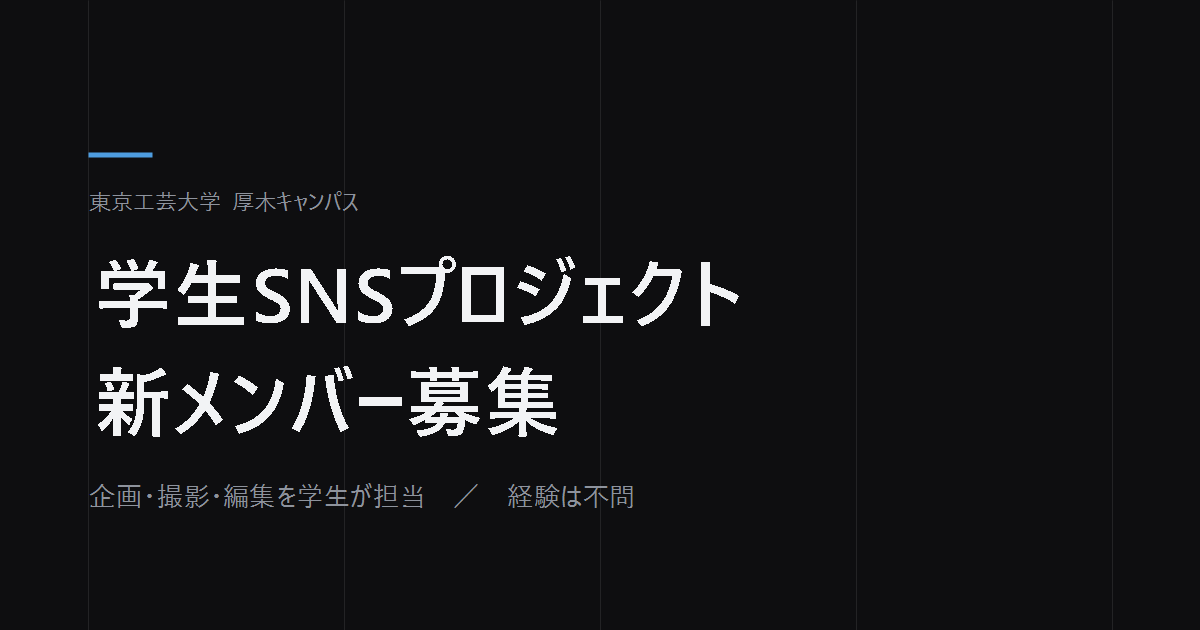
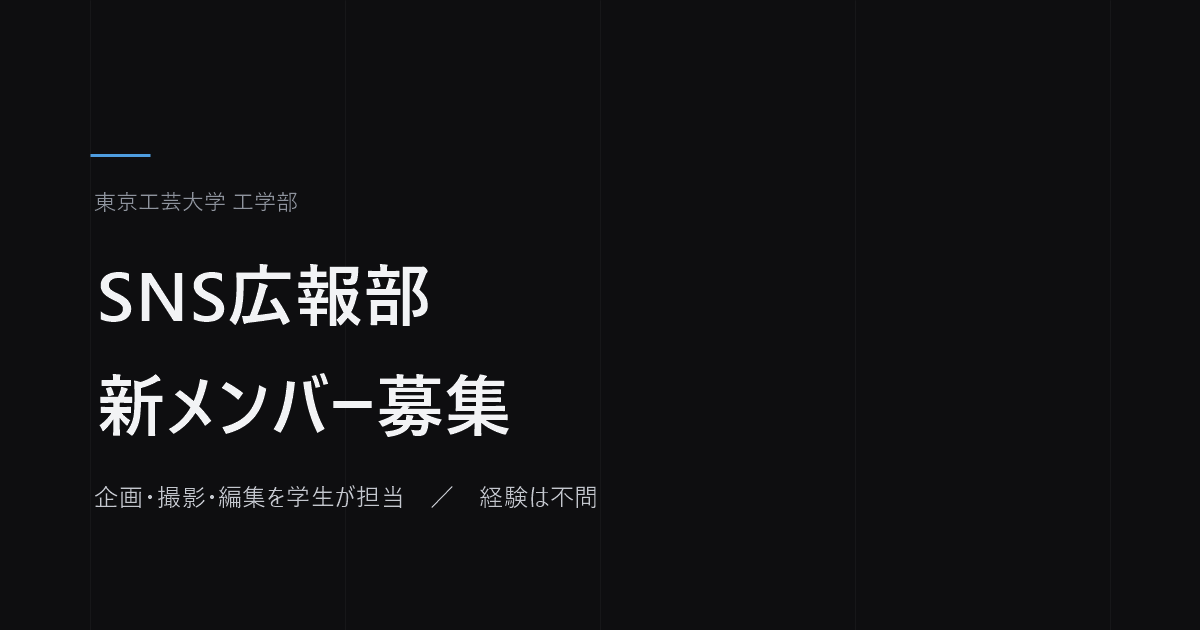
入試課フィードバックを反映：SNS広報部への名称変更・工学部への表記統一
工学部入試課からの正式フィードバック4点を反映。

1. 「学生SNSプロジェクト」を「SNS広報部」（正式表記「東京工芸大学 工学部
   SNS広報部」）へ全面変更。title / meta description / OGP各項目 /
   OGP画像（再生成）/ ヘッダー・ロゴ・見出し・本文・alt属性 / README を
   対象に統一。フッターの正式名称・略称プレースホルダーはこれで解消

2. 「厚木キャンパス」を「工学部」へ置換。1箇所ずつ自然さを確認しながら
   実施し、grepで「厚木」の残存が無いことを確認

3. 問い合わせ先に担当者名（橋本）を追加。掲載許可取得済みのため
   【要確認】マークを解除し、tel:リンク付きの確定表記に変更

4. フッターに制作クレジット「工学部 SNS広報部 学生有志」を追加。
   非公式注記は現状存在しないため追加せず（ユーザー確認済み）

名称変更に伴い、自己紹介文の「プロジェクトです」は「部です」に、
01セクション見出し「プロジェクトの現状」は「SNS広報部の現状」に修正し、
「プロジェクト」という語を全ファイルから除去。「稼働」「メンバー」
「エントリー」等の既存語彙は、正式な部活動としての性質と矛盾しないと
判断し維持。

.todo / .statnote / .slab .todo のCSSは、対象が0件になったため削除
（README に復元手順を記載）。

diff --git a/index.html b/index.html
@@ -3,21 +3,21 @@
 <head>
 <meta charset="UTF-8">
 <meta name="viewport" content="width=device-width, initial-scale=1.0">
-<title>学生SNSプロジェクト メンバー募集 | 東京工芸大学 厚木キャンパス</title>
-<meta name="description" content="東京工芸大学 厚木キャンパスの学生を対象に、SNS動画の企画・撮影・編集を担当するメンバーを募集しています。経験は不問。ミーティングは週1回、撮影は月1回程度です。">
+<title>SNS広報部 メンバー募集 | 東京工芸大学 工学部</title>
+<meta name="description" content="東京工芸大学 工学部 SNS広報部が、工学部の学生を対象にメンバーを募集しています。SNS動画の企画・撮影・編集を担当します。経験は不問。ミーティングは週1回、撮影は月1回程度です。">
 <meta name="color-scheme" content="dark">
 <meta name="theme-color" content="#0E0E10">
 
 <meta property="og:type" content="website">
-<meta property="og:title" content="学生SNSプロジェクト メンバー募集 | 東京工芸大学 厚木キャンパス">
-<meta property="og:description" content="厚木キャンパスの学生が、SNS動画の企画から編集までを担当しています。経験は不問。ミーティングは週1回、撮影は月1回程度です。">
-<meta property="og:site_name" content="東京工芸大学 厚木キャンパス 学生SNSプロジェクト">
+<meta property="og:title" content="SNS広報部 メンバー募集 | 東京工芸大学 工学部">
+<meta property="og:description" content="工学部 SNS広報部が、SNS動画の企画から編集までを担当しています。経験は不問。ミーティングは週1回、撮影は月1回程度です。">
+<meta property="og:site_name" content="東京工芸大学 工学部 SNS広報部">
 <meta property="og:locale" content="ja_JP">
 <meta property="og:url" content="https://kougei-snspro.vercel.app/">
 <meta property="og:image" content="https://kougei-snspro.vercel.app/assets/ogp.png">
 <meta property="og:image:width" content="1200">
 <meta property="og:image:height" content="630">
-<meta property="og:image:alt" content="東京工芸大学 厚木キャンパス 学生SNSプロジェクト メンバー募集">
+<meta property="og:image:alt" content="東京工芸大学 工学部 SNS広報部 メンバー募集">
 <meta name="twitter:card" content="summary_large_image">
 
 <link rel="icon" href="assets/favicon.svg" type="image/svg+xml">
@@ -38,8 +38,8 @@
 <header class="site-header" id="siteHeader">
   <div class="wrap header-inner">
     <a href="#top" class="brand">
-      <span class="brand-sup">東京工芸大学 厚木キャンパス</span>
-      <span class="brand-name">学生SNSプロジェクト</span>
+      <span class="brand-sup">東京工芸大学 工学部</span>
+      <span class="brand-name">SNS広報部</span>
     </a>
     <nav class="site-nav" aria-label="ページ内ナビゲーション">
       <a href="#status">現状</a>
@@ -69,13 +69,13 @@
     </picture>
 
     <div class="wrap hero__inner">
-      <p class="eyebrow reveal">東京工芸大学 厚木キャンパス</p>
-      <h1 class="hero-title reveal" id="hero-title">学生SNSプロジェクト<br>新メンバー募集</h1>
+      <p class="eyebrow reveal">東京工芸大学 工学部</p>
+      <h1 class="hero-title reveal" id="hero-title">SNS広報部<br>新メンバー募集</h1>
       <p class="hero-lead reveal">
-        厚木キャンパスの日常や学びを伝えるSNS動画を、企画から編集まで学生が担当して制作しています。
+        工学部の日常や学びを伝えるSNS動画を、企画から編集まで学生が担当して制作しています。
       </p>
       <p class="hero-meta reveal">
-        厚木キャンパスの学生対象<span class="sep">／</span>経験不問<span class="sep">／</span>応募締切なし（定員に達し次第終了）
+        工学部の学生対象<span class="sep">／</span>経験不問<span class="sep">／</span>応募締切なし（定員に達し次第終了）
       </p>
       <div class="hero-actions reveal">
         <a class="btn btn-accent btn-lg"
@@ -89,15 +89,15 @@
     <p class="hero__vertical" aria-hidden="true">学生が主体で運営</p>
   </section>
 
-  <!-- 01 プロジェクトの現状 -->
+  <!-- 01 SNS広報部の現状 -->
   <section class="section" id="status" aria-labelledby="status-title">
     <div class="wrap">
       <div class="section-head reveal">
         <span class="bignum" aria-hidden="true">01</span>
-        <h2 class="section-title" id="status-title">プロジェクトの現状</h2>
+        <h2 class="section-title" id="status-title">SNS広報部の現状</h2>
       </div>
 
-      <p class="section-lead reveal">2025年度に発足したばかりの、立ち上げ期のプロジェクトです。</p>
+      <p class="section-lead reveal">2025年度に発足したばかりの、立ち上げ期の部です。</p>
 
       <!-- 修正1: 「任される範囲は広くなります」が丸投げの印象を与えるため、
            一緒に決めていく体制であることが伝わる表現に変更 -->
@@ -284,7 +284,7 @@
             <dl class="statlist statlist--tight">
               <div class="statrow">
                 <dt>必須</dt>
-                <dd>東京工芸大学 厚木キャンパスの学生であること</dd>
+                <dd>東京工芸大学 工学部の学生であること</dd>
               </div>
               <div class="statrow">
                 <dt>経験</dt>
@@ -389,7 +389,7 @@
              href="https://docs.google.com/forms/d/e/1FAIpQLSdSt_2_E27_5q-WAqxmvpC2ct0BddGL3R6dM-FJXVolVKcB-A/viewform"
              target="_blank" rel="noopener"
              aria-label="エントリーフォームを開く（別タブで開きます）">エントリーする</a>
-          <p class="slab-note">所要3分 ／ 厚木キャンパスの学生対象</p>
+          <p class="slab-note">所要3分 ／ 工学部の学生対象</p>
         </div>
 
         <dl class="statlist statlist--on-accent reveal">
@@ -401,15 +401,10 @@
             <dt>応募締切</dt>
             <dd>設けていません。定員に達した時点で募集を終了します。</dd>
           </div>
-          <!-- 電話番号は掲載可否が未確定のため、確定するまで【要確認】のまま残す。
-               エントリーフォームには自由記述欄が存在しないため、
-               「自由記述欄からお送りください」という誤った案内には戻さない -->
+          <!-- 担当者名の掲載許可を工学部入試課から取得済み（フィードバック反映） -->
           <div class="statrow">
             <dt>質問したいとき</dt>
-            <dd>
-              <span class="todo">【要確認：東京工芸大学 工学部入試課 0120-125-246】</span>
-              <span class="statnote">この番号は掲載可否を確認中です。確定するまで問い合わせ先として使用しないでください。</span>
-            </dd>
+            <dd>東京工芸大学 工学部入試課 橋本（<a href="tel:0120125246">0120-125-246</a>）まで、お気軽にお問い合わせください。</dd>
           </div>
         </dl>
       </div>
@@ -421,11 +416,13 @@
 <footer class="site-footer">
   <div class="wrap footer-inner">
     <div>
-      <p class="footer-name">東京工芸大学 厚木キャンパス 学生SNSプロジェクト</p>
-      <p class="footer-alias"><span class="todo">【要差し替え：正式名称・略称】</span></p>
-      <p class="footer-desc">入試課と連携しながら、学生が主体となって運営しているプロジェクトです。</p>
+      <p class="footer-name">東京工芸大学 工学部 SNS広報部</p>
+      <p class="footer-desc">入試課と連携しながら、学生が主体となって運営している部です。</p>
     </div>
-    <p class="footer-copy">&copy; 2026</p>
+    <div class="footer-meta">
+      <p class="footer-credit">工学部 SNS広報部 学生有志</p>
+      <p class="footer-copy">&copy; 2026</p>
+    </div>
   </div>
 </footer>
 

diff --git a/css/style.css b/css/style.css
@@ -1,5 +1,5 @@
 /* ==========================================================================
-   東京工芸大学 厚木キャンパス 学生SNSプロジェクト — メンバー募集LP
+   東京工芸大学 工学部 SNS広報部 — メンバー募集LP
 
    ダーク1テーマ。ベースは純黒を避けた #0E0E10。
    アクセントは #4E9DE0 の1色のみ。写真のネイビーと色相を揃えたアズールで、
@@ -113,17 +113,6 @@ img { max-width: 100%; display: block; }
   font-weight: 700;
   font-variant-numeric: tabular-nums;
 }
-
-.todo {
-  display: inline-block;
-  border: 1px dashed var(--line-strong);
-  border-radius: var(--r);
-  padding: 2px 10px;
-  color: var(--ink-2);
-  font-size: 0.9375rem;
-  line-height: 1.7;
-}
-.slab .todo { border-color: rgba(14, 14, 16, 0.35); color: var(--accent-ink); }
 
 /* ==========================================================================
    極細の罫線グリッド
@@ -426,13 +415,13 @@ img { max-width: 100%; display: block; }
 }
 .statrow dt { font-size: 0.875rem; color: var(--muted); }
 .statrow dd { font-size: 1rem; line-height: 1.75; }
-.statnote { display: block; margin-top: var(--s1); font-size: 0.8125rem; color: var(--muted); line-height: 1.8; }
 
 .statlist--on-accent { border-top-color: rgba(14, 14, 16, 0.22); }
 .statlist--on-accent .statrow { border-bottom-color: rgba(14, 14, 16, 0.22); }
 .statlist--on-accent dt { color: var(--on-accent-2); }
 .statlist--on-accent dd { color: var(--accent-ink); }
-.statlist--on-accent .statnote { color: var(--on-accent-2); }
+/* 電話番号のリンクは地の文と同色なので、リンクだと分かるよう下線だけ足す */
+.statlist--on-accent dd a { text-decoration: underline; text-underline-offset: 2px; }
 
 /* ==========================================================================
    02 活動内容 — 非対称2カラム。写真の右端をセクション境界からはみ出させる
@@ -701,9 +690,13 @@ img { max-width: 100%; display: block; }
   .footer-inner { flex-direction: row; align-items: flex-end; justify-content: space-between; gap: var(--s4); }
 }
 .footer-name { font-size: 0.875rem; font-weight: 700; line-height: 1.7; }
-.footer-alias { margin-top: var(--s1); }
 .footer-desc { margin-top: var(--s2); max-width: 56ch; color: var(--muted); font-size: 0.8125rem; line-height: 1.8; }
-.footer-copy { color: var(--muted); font-size: 0.8125rem; font-variant-numeric: tabular-nums; flex-shrink: 0; }
+/* 制作クレジットとコピーライトを縦に並べ、右端で揃える */
+.footer-meta { display: flex; flex-direction: column; align-items: flex-start; gap: var(--s1); flex-shrink: 0; }
+@media (min-width: 700px) { .footer-meta { align-items: flex-end; } }
+.footer-credit,
+.footer-copy { color: var(--muted); font-size: 0.8125rem; }
+.footer-copy { font-variant-numeric: tabular-nums; }
 
 /* ==========================================================================
    モバイルの縦方向の圧縮

diff --git a/README.md b/README.md
@@ -1,6 +1,6 @@
-# 東京工芸大学 厚木キャンパス 学生SNSプロジェクト メンバー募集LP
+# 東京工芸大学 工学部 SNS広報部 メンバー募集LP
 
-厚木キャンパスの学生に向けた、メンバー募集用のランディングページ（1枚）。
+工学部の学生に向けた、メンバー募集用のランディングページ（1枚）。
 ビルド不要の静的サイト（HTML / CSS / vanilla JS）。フレームワーク・外部ライブラリは使用していません。
 
 ## 構成
@@ -87,18 +87,31 @@ WebP / JPEG の両形式は Unsplash の CDN（imgix）から `?fm=webp` `?fm=jp
 
 ## 差し替えが必要な箇所
 
-ページ上で `【要確認：〜】` `【要差し替え：〜】` として破線枠で表示されています。
+現在、未確定のプレースホルダーはありません。
 
-- [ ] **問い合わせ電話番号** — `#entry` セクション内の `【要確認：東京工芸大学 工学部入試課 0120-125-246】`
-      受験生向けの入試相談ダイヤルである可能性が高く、掲載可否が未確認です。確定するまで問い合わせ先として使用しないでください。
-- [ ] **プロジェクトの正式名称・略称** — フッター内の `【要差し替え：正式名称・略称】`。不要であれば `.footer-alias` の行ごと削除してください。
+不確定な情報が生じた場合は、本文中に `【要確認：〜】` `【要差し替え：〜】` の形式で
+破線枠のマーク（`.todo` クラス）を付けて示す運用にしています。CSSは現在削除済みなので、
+再び必要になった場合は `css/style.css` の `.statrow` 定義の近くに以下を復元してください。
+
+```css
+.todo {
+  display: inline-block;
+  border: 1px dashed var(--line-strong);
+  border-radius: var(--r);
+  padding: 2px 10px;
+  color: var(--ink-2);
+  font-size: 0.9375rem;
+  line-height: 1.7;
+}
+.slab .todo { border-color: rgba(14, 14, 16, 0.35); color: var(--accent-ink); }
+```
 
 ## 表記上の制約
 
-- プロジェクトを「公式」「オフィシャル」と表現しない
+- SNS広報部を「公式」「オフィシャル」と表現しない
 - 大学のロゴ、大学指定カラー、大学サイトの意匠を使用しない
-- 名称は「東京工芸大学 厚木キャンパス 学生SNSプロジェクト」で統一する
-- 大学との関係は事実のみを記載する（「入試課と連携しながら、学生が主体となって運営しているプロジェクト」）
+- 名称は「東京工芸大学 工学部 SNS広報部」で統一する（文脈に応じて「SNS広報部」に省略可）
+- 大学との関係は事実のみを記載する（「入試課と連携しながら、学生が主体となって運営している部」）
 - 実在しない「参加者の声」やフォロワー数などの数値をダミーで置かない
 - SNSアカウント名・フォロワー数・投稿は掲載しない
 
